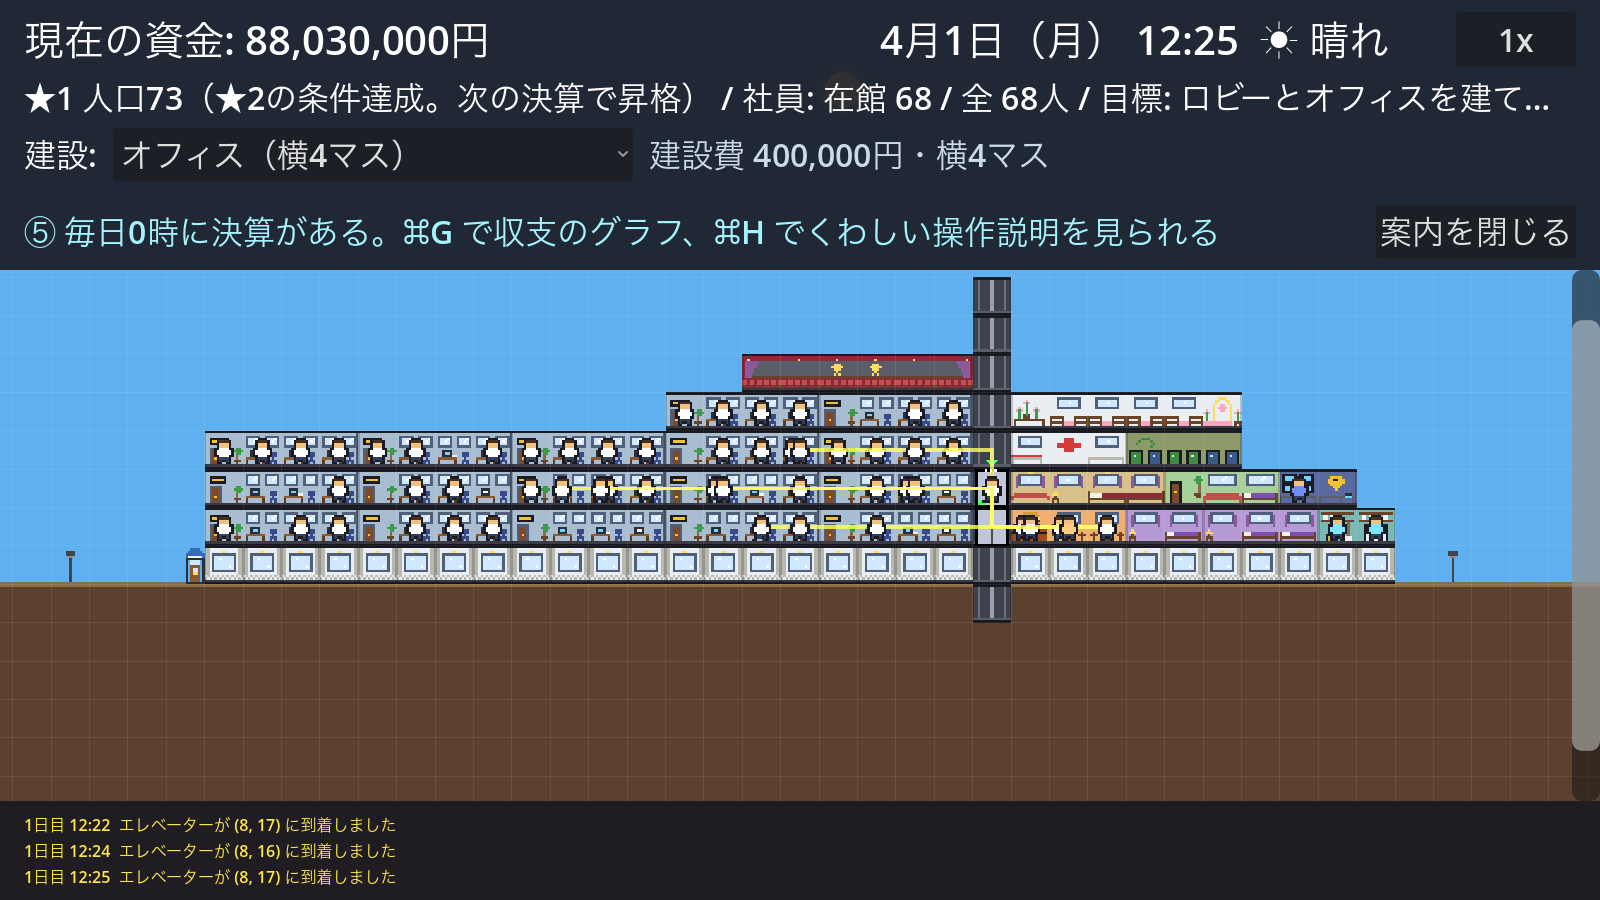
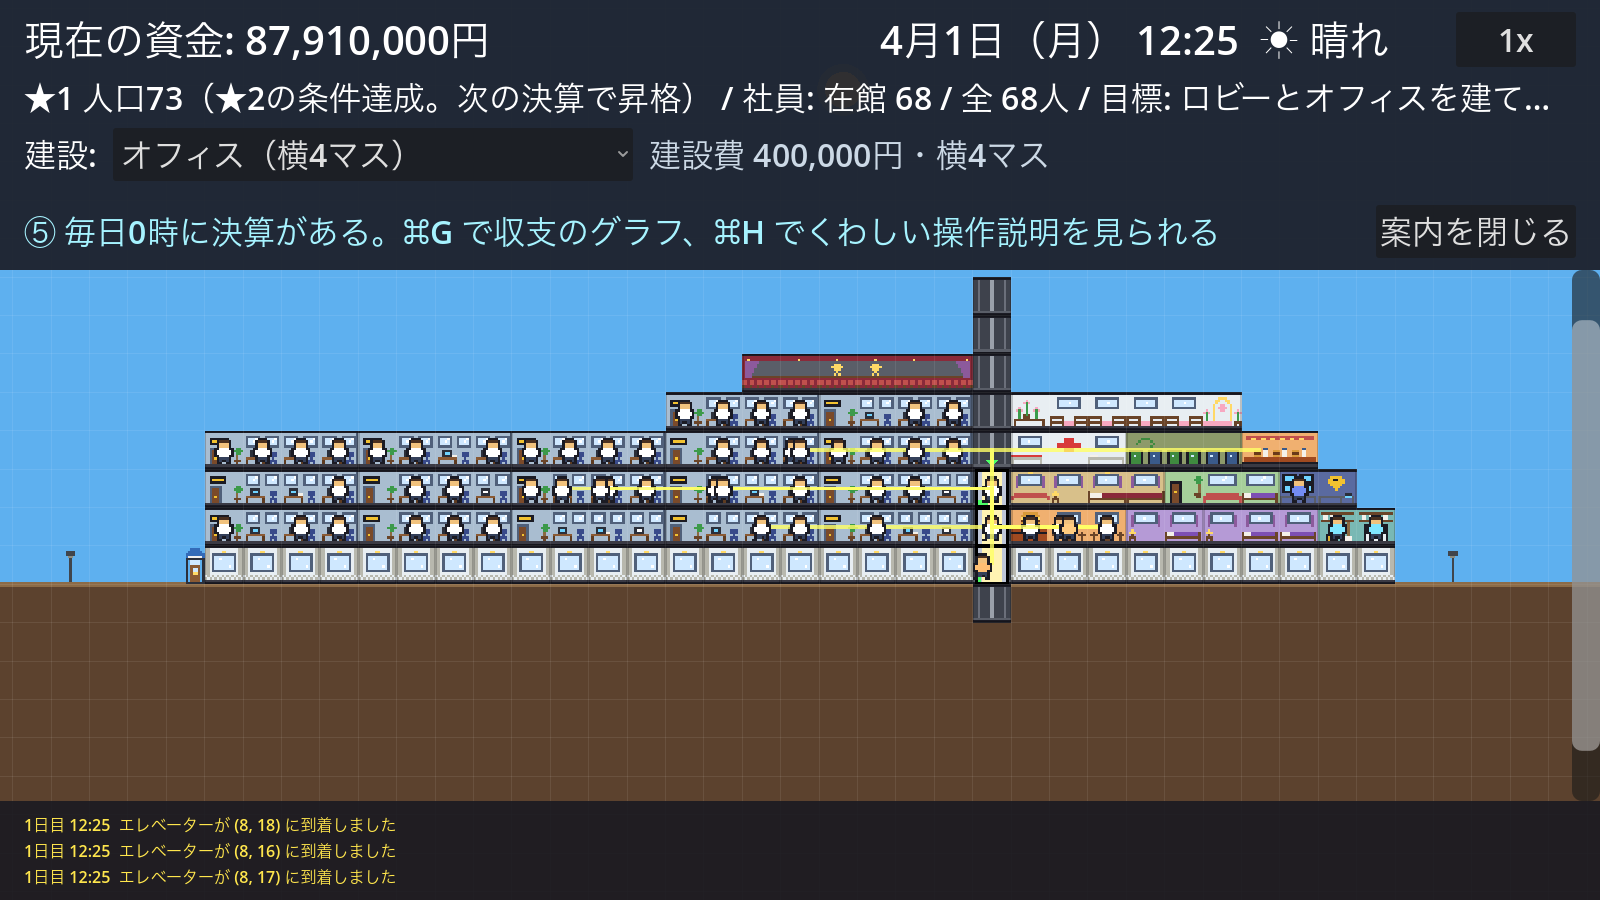
feat: ファストフード（横2マス・食事10分・600円の安くて速い飲食店）
- 横2マス・12万円。食事は10分・600円（飲食店は横3マス・30分・1,000円）
- 社員は昼に飲食店とファストフードのうち一番近い店を選ぶ
- 外からの客（平日3人・休日10人）・騒音・維持費・爆破/火災にも対応
- ゴミの数を「売上÷1,000円」から食事の回数そのもの（meals_by_day）に変更

diff --git a/README.md b/README.md
@@ -219,7 +219,7 @@ godot --path . -s res://tools/generate_readme_images.gd
 | 8:00〜9:00 | 社員が出勤（朝のラッシュ） | オフィスは休み |
 | 10:00〜12:00 | | 住宅の家族が出かける |
 | 10:00〜13:00 | | 結婚式（来客12人） |
-| 12:00〜13:30 | 社員が飲食店で昼食（昼のラッシュ） | |
+| 12:00〜13:30 | 社員が飲食店かファストフードで昼食（昼のラッシュ） | |
 | 13:00〜17:00 | | イベント（来客15人） |
 | 15:00〜18:00 | | 住宅の家族が帰ってくる |
 | 17:00〜18:00 | 社員が退社（夕方のラッシュ） | |
@@ -310,11 +310,12 @@ BGMはゆっくりした和音のくり返しで、**昼と夜で和音が変わ
 
 | 絵 | 名前 | 大きさ | 建設費 | 内容 |
 |---|---|---|---|---|
-| ![オフィス](docs/images/buildings/office.png) | オフィス | 横4マス | 40万円 | 社員が4人（1マスに1人）。平日8〜9時に出勤し、17〜18時に退社。昼は飲食店へ。賃料は1マス1日1万円（休日も入る。空室の間は入らない） |
+| ![オフィス](docs/images/buildings/office.png) | オフィス | 横4マス | 40万円 | 社員が4人（1マスに1人）。平日8〜9時に出勤し、17〜18時に退社。昼は飲食店かファストフードへ。賃料は1マス1日1万円（休日も入る。空室の間は入らない） |
 | ![シングル](docs/images/buildings/hotel.png) | シングル | 横2マス | 15万円 | 17〜21時に客1人が泊まり、翌朝チェックアウトで宿泊料2万円。清掃20分 |
 | ![ツイン](docs/images/buildings/hotel_twin.png) | ツイン | 横3マス | 20万円 | 客2人。宿泊料3.5万円。清掃30分 |
 | ![スイート](docs/images/buildings/hotel_suite.png) | スイート | 横4マス | 50万円 | 客2人。宿泊料8万円。清掃45分 |
 | ![飲食店](docs/images/buildings/restaurant.png) | 飲食店 | 横3マス | 20万円 | 平日12〜13時に社員が一番近い店で昼食（30分）。売上は1人1,000円。外からのお客さんも来る（平日2人・休日8人） |
+| ![ファストフード](docs/images/buildings/fastfood.png) | ファストフード | 横2マス | 12万円 | 飲食店の小さくて速い版。食事は10分、売上は1人600円。狭い場所に置けて、昼の混雑をさばける。外からのお客さんも来る（平日3人・休日10人） |
 | ![ショップ](docs/images/buildings/shop.png) | ショップ | 横3マス | 25万円 | 外からのお客さんが買い物に来る（平日3人・休日10人、1人1,500円、滞在20分）。社員は来ない（維持費 3,000円/日） |
 | ![住宅](docs/images/buildings/housing.png) | 住宅 | 横3マス | 40万円 | 3人家族が入居すると販売収入70万円（1回だけ）。家族は毎日出かけて帰ってくる |
 | ![結婚式場](docs/images/buildings/wedding.png) | 結婚式場 | 横6マス | 100万円 | 休日の10〜11時に来客12人、13時まで。1人1万円 |
@@ -358,7 +359,7 @@ BGMはゆっくりした和音のくり返しで、**昼と夜で和音が変わ
 
 **映画館の混雑:** 上映の30分前から客が集まり、終わると一斉に帰ります。短い時間にエレベーターへ人が殺到するので、カゴを増やすか、エスカレーターや階段を近くに用意しておくと安心です。
 
-**外から来るお客さん:** 飲食店とショップには、入口（1階のロビーか地下鉄駅）から外のお客さんが来ます。平日は11〜14時、休日は10〜17時です。休日は社員が来ないぶん、店の稼ぎが頼りになります。店まで歩ける道がないと、お客さんは来ません。
+**外から来るお客さん:** 飲食店・ファストフードとショップには、入口（1階のロビーか地下鉄駅）から外のお客さんが来ます。平日は11〜14時、休日は10〜17時です。休日は社員が来ないぶん、店の稼ぎが頼りになります。店まで歩ける道がないと、お客さんは来ません。
 
 **車で来るお客さん:** 使える駐車場があると、昼（11〜14時）に1台につき2人がやって来て、一番近い飲食店で食事をして帰ります（1人1,000円）。駐車場から飲食店まで歩ける道（階段やエレベーター）がないと、誰も来ません。飲食店が1つもない日も来ません。
 
@@ -377,6 +378,7 @@ BGMはゆっくりした和音のくり返しで、**昼と夜で和音が変わ
 | ![イベントの来客](docs/images/people/event.png) | イベントの来客（オレンジ） | 休日にイベントホールに来る |
 | ![車で来た客](docs/images/people/parking.png) | 車で来たお客さん（緑） | 昼に地下駐車場に来て、店で過ごして帰る |
 | ![飲食店の客](docs/images/people/restaurant_customer.png) | 飲食店の外からの客（うすいオレンジ） | 入口から来て、飲食店で食事をして帰る |
+| ![ファストフードの客](docs/images/people/fastfood_customer.png) | ファストフードの外からの客（オレンジ） | 入口から来て、10分で食事をして帰る |
 | ![ショップの客](docs/images/people/shop_customer.png) | ショップのお客さん（ピンク） | 入口から来て、ショップで買い物をして帰る |
 | ![映画の客](docs/images/people/cinema_customer.png) | 映画のお客さん（むらさき） | 上映の前に来て、終わると一斉に帰る |
 | ![選択中](docs/images/people/selected.png) | 選択中（黄色） | 「住人（テスト）」で置いて、行き先を待っている人 |
@@ -561,7 +563,7 @@ ProjectTower/
 | `scripts/systems/pathfinding.gd` | 移動ルール（歩く・階段・エスカレーター・エレベーター）と経路探索 |
 | `scripts/systems/elevator_system.gd` | シャフトとカゴの管理、カゴの追加、群管理 |
 | `scripts/systems/commute_system.gd` | 社員の出勤・退社 |
-| `scripts/systems/commerce_system.gd` | 飲食店の昼食 |
+| `scripts/systems/commerce_system.gd` | 飲食店・ファストフードの昼食 |
 | `scripts/systems/hotel_system.gd` | ホテルの客室・宿泊客・清掃員 |
 | `scripts/systems/housing_system.gd` | 住宅と入居者の家族 |
 | `scripts/systems/event_system.gd` | 結婚式場・イベントホールの来客 |

diff --git a/Tasks.md b/Tasks.md
@@ -97,7 +97,7 @@
 
 ### 新しい要素
 - [x] 屋上庭園（屋上に建てられる憩いの場。ストレスが回復し、騒音もやわらぐ）
-- [ ] ファストフード（安くて回転の速い飲食店。昼の混雑をさばく）
+- [x] ファストフード（安くて回転の速い飲食店。昼の混雑をさばく）
 - [ ] オフィスの種類を増やす（小さいオフィス・大きいオフィスで賃料と人数を変える）
 - [ ] 駐車場の拡張（地下の何階にも作れるようにして、スロープでつなぐ）
 
